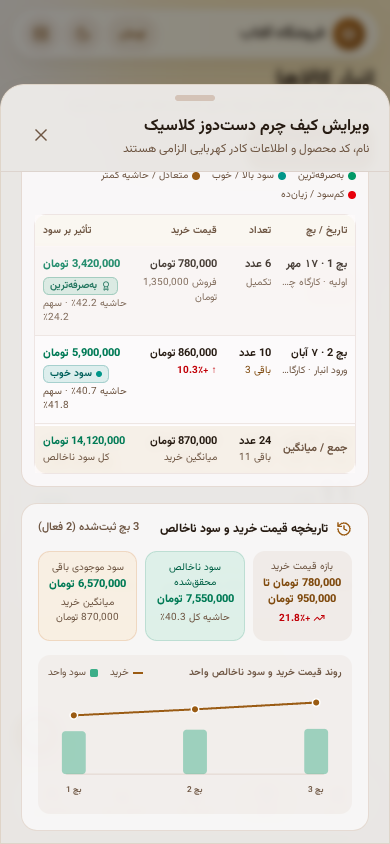
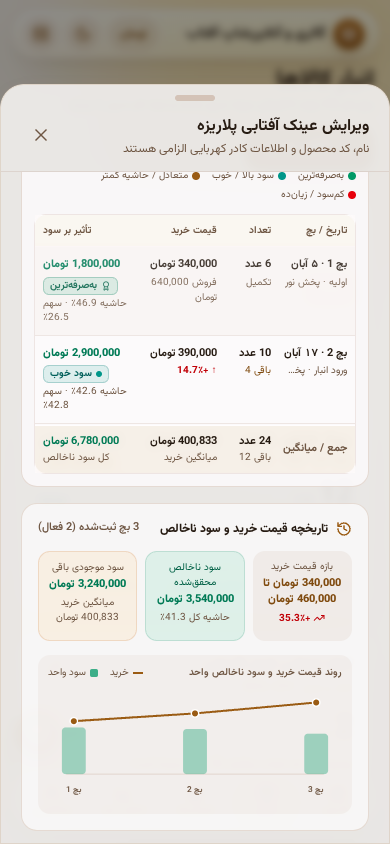
refactor: generalize application branding and data logic
- Removed cafe-specific demo constraints and legacy keys.
- Updated UI placeholders and README to reflect a generic business/inventory management tool.
- Set default business type to 'online' in backup settings.

diff --git a/src/components/modals/ProductFormModal.tsx b/src/components/modals/ProductFormModal.tsx
@@ -213,7 +213,7 @@ export function ProductFormModal({ open, onClose, editingProduct }: ProductFormM
               required
               value={name}
               onChange={(e) => setName(e.target.value)}
-              placeholder="مثلاً: دانه قهوه برزیل"
+              placeholder="مثلاً: کیف دوشی چرم"
               className="w-full min-h-[44px] px-3.5 rounded-2xl bg-white/80 dark:bg-[#1A1511] border border-amber-900/15 dark:border-amber-200/15 text-sm focus:outline-none focus:ring-2 focus:ring-[#9A5B13]"
             />
           </div>
@@ -229,7 +229,7 @@ export function ProductFormModal({ open, onClose, editingProduct }: ProductFormM
               required
               value={sku}
               onChange={(e) => setSku(e.target.value)}
-              placeholder="COF-105"
+              placeholder="PRD-105"
               className="w-full min-h-[44px] px-3.5 rounded-2xl bg-white/80 dark:bg-[#1A1511] border border-amber-900/15 dark:border-amber-200/15 text-sm text-left tabular-nums focus:outline-none focus:ring-2 focus:ring-[#9A5B13]"
             />
           </div>
@@ -396,7 +396,7 @@ export function ProductFormModal({ open, onClose, editingProduct }: ProductFormM
             rows={2}
             value={notes}
             onChange={(e) => setNotes(e.target.value)}
-            placeholder="توضیحات نگهداری، نوع آسیاب یا برند..."
+            placeholder="توضیحات، رنگبندی، سایز یا برند..."
             className="w-full px-3.5 py-2.5 rounded-2xl bg-white/80 dark:bg-[#1A1511] border border-amber-900/15 dark:border-amber-200/15 text-sm focus:outline-none focus:ring-2 focus:ring-[#9A5B13]"
           />
         </div>

diff --git a/src/context/LedgerContext.tsx b/src/context/LedgerContext.tsx
@@ -115,12 +115,33 @@ interface LedgerContextValue {
 
 const LedgerContext = createContext<LedgerContextValue | null>(null);
 
+const LEGACY_LOCAL_KEYS = ['mizan_local_ledger_v1', 'mizan_demo_ledger'];
+
+function isLegacyCafeDemoLedger(state: LedgerState): boolean {
+  const ownerId = state.profile.ownerId ?? '';
+  const storeName = (state.profile.storeName ?? '').trim();
+  const authMode = (state.profile as { authMode?: string }).authMode;
+  return (
+    authMode === 'demo' ||
+    ownerId === 'demo-cafe-mizan' ||
+    ownerId.startsWith('demo_') ||
+    storeName.includes('کافه رُستری میزان') ||
+    storeName.includes('کافه رستری میزان') ||
+    storeName === 'کافه میزان'
+  );
+}
+
 function readStoredLedger(): LedgerState | null {
   try {
+    LEGACY_LOCAL_KEYS.forEach((legacyKey) => localStorage.removeItem(legacyKey));
     const raw = localStorage.getItem(LOCAL_LEDGER_KEY);
     if (!raw) return null;
     const parsed = JSON.parse(raw) as LedgerState;
     if (!parsed || !parsed.profile || !Array.isArray(parsed.products)) return null;
+    if (isLegacyCafeDemoLedger(parsed)) {
+      localStorage.removeItem(LOCAL_LEDGER_KEY);
+      return null;
+    }
     return parsed;
   } catch {
     return null;

diff --git a/src/components/modals/BackupModal.tsx b/src/components/modals/BackupModal.tsx
@@ -6,11 +6,11 @@ import { formatJalaliShortDate } from '../../utils/formatters';
 import { ModalFrame } from './ModalFrame';
 
 const BUSINESS_TYPES: BusinessType[] = [
+  'shop',
+  'online',
+  'boutique',
   'cafe',
   'restaurant',
-  'shop',
-  'boutique',
-  'online',
   'other',
 ];
 
@@ -30,7 +30,7 @@ export function BackupModal({ open, onClose }: BackupModalProps) {
 
   const fileInputRef = useRef<HTMLInputElement | null>(null);
   const [storeName, setStoreName] = useState('');
-  const [businessType, setBusinessType] = useState<BusinessType>('cafe');
+  const [businessType, setBusinessType] = useState<BusinessType>('online');
   const [pendingJson, setPendingJson] = useState<string | null>(null);
   const [pendingSummary, setPendingSummary] = useState<{
     storeName: string;

diff --git a/README.md b/README.md
@@ -1,59 +1,79 @@
 <div dir="rtl" align="right">
 
 <p align="center">
-  <img src="public/icon.svg" alt="لوگوی میزان" width="88" height="88" />
+  <img src="public/icon.svg" alt="لوگوی میزان" width="92" height="92" />
 </p>
 
 <h1 align="center">میزان — دفتر زنده موجودی انبار و سود</h1>
 
 <p align="center">
-  اپلیکیشن تحتوب پیشرونده (PWA) و آماده انتشار اندروید برای مدیریت دقیق موجودی انبار، محاسبه خودکار بهای تمامشده به روش <strong>FIFO</strong>، ثبت فروشهای حضوری و آنلاین و تحلیل لحظهای سود واقعی — تماماً فارسی، راستبهچپ و ساختهشده با تمرکز بر تجربه موبایل.
+  اپلیکیشن موبایلمحور (<strong>PWA</strong> و آماده بیلد بومی <strong>Android APK / AAB</strong>) برای مدیریت لحظهای موجودی انبار، محاسبه خودکار بهای تمامشده به روش <strong>FIFO</strong>، ثبت فروشهای آنلاین و حضوری و تحلیل دقیق سود واقعی — تماماً فارسی، راستبهچپ و کاملاً آفلاین.
 </p>
 
 <p align="center">
   <img src="https://img.shields.io/badge/React-19-61DAFB?style=flat-square&logo=react&logoColor=14110E" alt="React 19" />
   <img src="https://img.shields.io/badge/TypeScript-5+-3178C6?style=flat-square&logo=typescript&logoColor=white" alt="TypeScript" />
   <img src="https://img.shields.io/badge/Tailwind_CSS-v4-06B6D4?style=flat-square&logo=tailwindcss&logoColor=white" alt="Tailwind CSS v4" />
-  <img src="https://img.shields.io/badge/PWA-Offline_Ready-9A5B13?style=flat-square" alt="PWA Ready" />
-  <img src="https://img.shields.io/badge/Android-Signed_Release_CI-3DDC84?style=flat-square&logo=android&logoColor=14110E" alt="Android Signed CI" />
-  <img src="https://img.shields.io/badge/License-MIT-emerald?style=flat-square" alt="MIT License" />
+  <img src="https://img.shields.io/badge/PWA-Offline_First-9A5B13?style=flat-square" alt="PWA Offline First" />
+  <img src="https://img.shields.io/badge/Android-Signed_APK_%2F_AAB-3DDC84?style=flat-square&logo=android&logoColor=14110E" alt="Android Signed APK & AAB" />
+  <img src="https://img.shields.io/badge/License-MIT-10B981?style=flat-square" alt="MIT License" />
+</p>
+
+<p align="center">
+  <a href="#تصاویر-برنامه">تصاویر برنامه</a> •
+  <a href="#امکانات-کلیدی">امکانات کلیدی</a> •
+  <a href="#نصب-و-اجرای-محلی">نصب و اجرا</a> •
+  <a href="#بیلد-اندروید-apk--aab-و-تنظیمات-امنیتی">بیلد اندروید (APK/AAB)</a> •
+  <a href="#ساختار-پروژه">ساختار پروژه</a>
 </p>
 
 ---
 
-## پیشنمایش رابط کاربری
+## تصاویر برنامه
 
-### نسخه موبایل (حالت روز، حالت شب و جدول تاریخچه خرید بچها)
+### نمای موبایل — شروع سریع، داشبورد (حالت روز و شب)
 
 <p align="center">
-  <img src="docs/screenshots/mobile-dashboard-light.png" alt="داشبورد موبایل در حالت روز با نوارهای شناور شیشهای" width="260" />
+  <img src="docs/screenshots/mobile-welcome.png" alt="صفحه شروع سریع میزان بدون نیاز به ثبتنام" width="250" />
   &nbsp;&nbsp;
-  <img src="docs/screenshots/mobile-dashboard-dark.png" alt="داشبورد موبایل در حالت شب" width="260" />
+  <img src="docs/screenshots/mobile-dashboard-light.png" alt="داشبورد موبایل میزان در حالت روز با نوارهای شناور شیشهای" width="250" />
   &nbsp;&nbsp;
-  <img src="docs/screenshots/mobile-purchase-history.png" alt="جدول تاریخچه خریدهای قبلی و نشانگرهای سودآوری بچها" width="260" />
+  <img src="docs/screenshots/mobile-dashboard-dark.png" alt="داشبورد موبایل میزان در حالت شب" width="250" />
 </p>
 
-### نسخه دسکتاپ (واکنشگرا با ستون شناور سمت راست)
+### انبار شناور، تاریخچه قیمت خرید بچها، فروشها و تحلیل سود
 
 <p align="center">
-  <img src="docs/screenshots/desktop-dashboard.png" alt="داشبورد دسکتاپ میزان" width="100%" />
+  <img src="docs/screenshots/mobile-inventory.png" alt="صفحه انبار کالاها با کارتهای شیشهای شناور و افکت لمسی" width="200" />
+  &nbsp;
+  <img src="docs/screenshots/mobile-purchase-history.png" alt="جدول تاریخچه خرید بچها و نشانگرهای سودآوری در فرم کالا" width="200" />
+  &nbsp;
+  <img src="docs/screenshots/mobile-sales.png" alt="فهرست فروشهای آنلاین و حضوری با محاسبه سود FIFO" width="200" />
+  &nbsp;
+  <img src="docs/screenshots/mobile-analytics.png" alt="تحلیل سود دوخطی و رتبهبندی سودآورترین کالاها" width="200" />
+</p>
+
+### نمای دسکتاپ واکنشگرا
+
+<p align="center">
+  <img src="docs/screenshots/desktop-dashboard.png" alt="داشبورد دسکتاپ میزان با سایدبار شناور شیشهای" width="100%" />
 </p>
 
 ---
 
 ## امکانات کلیدی
 
-- **طراحی شناور الهامگرفته از iOS و تلگرام**: نوار بالا و منوی پایین موبایل بهصورت جزیره شیشهای شناور با افکت `backdrop-blur`، حاشیه درخشان ملایم و حالت روز و شب کامل با قلم **وزیرمتن (Vazirmatn)**.
-- **محاسبه دقیق سود و بهای تمامشده (FIFO)**: هنگام ثبت هر فروش، کالا بهصورت خودکار از قدیمیترین بچ خرید کسر میشود و سود خالص و حاشیه سود واقعی بدون خطا محاسبه میگردد.
-- **پشتیبانی از خرید و فروش چندنرخی برای یک کالا**: میتوانید یک کالا را در تاریخهای مختلف با قیمت خرید و فروش متفاوت وارد انبار کنید، سهم هر بچ در سود را ببینید و هنگام فروش بین حالت خودکار FIFO یا انتخاب یک بچ مشخص تصمیم بگیرید.
-- **تاریخچه قیمت خرید و نشانگرهای سودآوری بچها**: در فرم ویرایش هر کالا، جدول تاریخچه خریدهای قبلی (`PurchaseHistoryTable`) همراه با نشانگرهای رنگی سودآوری (*بهصرفهترین*، *سود خوب*، *حاشیه کمتر*، *کمسود / زیانده*) و اسکرول عمودی بهینه برای موبایل نمایش داده میشود.
-- **ساختهشده برای فروش آنلاین و حضوری**: پشتیبانی کامل از کانالهای فروش **آنلاین**، **اینستاگرام**، **تلگرام / واتساپ**، **سایت / باسلام**، **حضوری** و **عمده**؛ همراه با ثبت سریع نام مشتری، آیدی یا کد سفارش (مثل `سفارش #1048`) و قابلیت ابطال فروش با بازگشت خودکار موجودی به بچهای اصلی.
-- **نمایش شفاف مبالغ به تومان و ریال**: نمایش دقیق و خوانای ارقام به **تومان** (یا **ریال** با یک لمس) بدون اختصارهای گیجکننده.
-- **آفلاین کامل + پشتیبانگیری و بازیابی (Backup / Restore)**: تمام اطلاعات بدون نیاز به ساخت حساب کاربری یا سرور خارجی روی دستگاه شما ذخیره میشود و هر زمان میتوانید نسخه پشتیبان JSON دانلود یا بازیابی کنید.
+- **رابط کاربری شیشهای شناور (iOS / Telegram Liquid Glass):** نوار بالا، منوی پایین موبایل، کنترلهای بخشبندیشده و کارتهای کالا با افکت شیشهای عمیق (`backdrop-filter`)، سایههای شناور چندلایه، واکنش فشردن لمسی (haptic-like) و حالت روز و شب کامل همراه با قلم **وزیرمتن (Vazirmatn)**.
+- **موتور حسابداری انبار FIFO و خرید چندنرخی:** امکان ثبت یک کالا با قیمتهای خرید و فروش متفاوت در بچهای مختلف؛ هنگام فروش، موجودی بهطور خودکار از قدیمیترین بچ کسر میشود و بهای تمامشده و سود واقعی بدون خطا محاسبه میگردد.
+- **تاریخچه قیمت خرید و نشانگرهای سودآوری بچها:** نمایش فهرست خریدهای قبلی هر کالا (`PurchaseHistoryTable`) همراه با درصد تغییر قیمت، سهم سود هر بچ و نشانگرهای رنگی (*بهصرفهترین*، *سود خوب*، *حاشیه کمتر*، *کمسود / زیانده*).
+- **آماده برای فروش آنلاین و حضوری:** پشتیبانی از کانالهای **آنلاین**، **اینستاگرام**، **تلگرام / واتساپ**، **سایت / باسلام**، **حضوری** و **عمده** با ثبت سریع آیدی یا شماره سفارش، کنترل موجودی، و قابلیت ابطال فروش با بازگشت خودکار موجودی به بچهای اصلی.
+- **تحلیل سود و گزارشگیری شمسی:** داشبورد زنده با تاریخ شمسی، روند سود ۷ روزه، نمودار روزانه و ماهانه، تحلیل بازههای ۷ / ۳۰ / ۹۰ روزه و رتبهبندی سودآورترین کالاها.
+- **شفافیت کامل در واحد پول:** نمایش مستقیم مبالغ به **تومان** یا **ریال** (قابل جابهجایی با یک لمس) بدون اختصارهای مبهم.
+- **حریم خصوصی و عملکرد ۱۰۰٪ آفلاین:** بدون نیاز به ساخت حساب کاربری یا سرور خارجی؛ ذخیره محلی امن روی دستگاه به همراه خروجی و بازیابی کامل فایل پشتیبان (**Backup / Restore JSON**).
 
 ---
 
-## نصب و اجرای محلی (توسعه)
+## نصب و اجرای محلی
 
 پیشنیاز: **Node.js نسخه ۲۰ به بالا**
 
@@ -65,72 +85,55 @@ cd mizan-ledger
 # ۲. نصب وابستگیها
 npm install
 
-# ۳. اجرای محیط توسعه (روی پورت 3000)
+# ۳. اجرای محیط توسعه روی پورت 3000
 npm run dev
 ```
 
 ### دستورهای کاربردی
 
-| دستور | توضیح |
+| دستور | کاربرد |
 | :--- | :--- |
 | `npm run dev` | اجرای سرور توسعه روی `http://localhost:3000` |
-| `npm run build` | ساخت خروجی نهایی بهینه همراه با Service Worker و Manifest (در پوشه `dist/`) |
+| `npm run build` | ساخت خروجی تولیدی وب همراه با Service Worker و Manifest در پوشه `dist/` |
 | `npm run lint` | بررسی کامل تایپهای TypeScript (`tsc --noEmit`) |
-| `npm test` | اجرای تستهای واحد منطق FIFO، چندنرخی، تاریخچه خرید و پشتیبانگیری |
+| `npm test` | اجرای تستهای واحد موتور FIFO، چندنرخی، تاریخچه خرید و پشتیبانگیری |
+| `npm run android:keystore` | ساخت کلید امضای دائمی تولیدی (RSA 4096-bit) و `keystore.properties` محلی |
+| `npm run android:build` | ساخت همزمان فایلهای امضاشده **APK** و **AAB** در پوشه `release-artifacts/` |
+| `npm run android:build:apk` | ساخت فایل نصبی امضاشده **APK** |
+| `npm run android:build:aab` | ساخت بسته انتشار امضاشده **AAB** برای Google Play، کافهبازار و مایکت |
 
 ---
 
-## نصب روی گوشی اندروید و ساخت فایل APK امضاشده (بدون خطای Unsafe)
+## بیلد اندروید (APK / AAB) و تنظیمات امنیتی
 
-اپلیکیشن میزان به دو روش کاملاً امن روی گوشی اندروید قابل نصب است:
+میزان به دو روش کاملاً امن و استاندارد روی گوشیهای اندروید قابل نصب است:
 
-### روش ۱: نصب مستقیم PWA (سریعترین روش — بدون هیچ هشدار امنیتی)
-نسخه وب میزان دارای **Web App Manifest**، آیکونهای استاندارد (`192px`، `512px` و `Maskable`) و **Service Worker آفلاین** است. پس از میزبانی پوشه `dist/` روی هر هاست HTTPS (مانند GitHub Pages، Cloudflare Pages یا Vercel):
-1. آدرس اپ را در مرورگر Chrome اندروید (یا Safari آیفون) باز کنید.
-2. دکمه **«نصب اپلیکیشن»** داخل برنامه (یا گزینه *Add to Home Screen*) را بزنید.
-3. اپ با آیکون اختصاصی، تمامصفحه (`standalone`) و کاملاً آفلاین بدون هیچ هشدار Play Protect نصب میشود.
+### روش ۱: نصب مستقیم بهعنوان PWA (بدون نیاز به APK)
+پس از میزبانی پوشه `dist/` روی هر سرویس HTTPS (مانند GitHub Pages، Cloudflare Pages یا Vercel)، کافی است آدرس را در مرورگر Chrome اندروید یا Safari آیفون باز کرده و دکمه **«نصب اپلیکیشن»** را بزنید تا بهصورت تمامصفحه و آفلاین نصب شود.
 
-### روش ۲: بیلد استاندارد محلی یا خودکار (APK و AAB امضاشده با امنسازی تولیدی)
-در این مخزن، اسکریپتهای استاندارد تولید نسخه اندروید (`scripts/build-android.sh`، `scripts/generate-keystore.sh`، `scripts/harden-android.mjs`) به همراه تنظیمات امنیتی `android-config/` و ورکفلو **GitHub Actions** قرار داده شدهاند تا فایلهای **APK** و **AAB** با امضای **v1/v2/v3/v4** و بدون خطاهای امنیتی **Unsafe / Play Protect** تولید شوند.
+### روش ۲: بیلد بومی امضاشده اندروید (APK و AAB بدون خطای Unsafe)
+اسکریپتهای استاندارد `scripts/build-android.sh`، `scripts/generate-keystore.sh` و `scripts/harden-android.mjs` همراه با فایلهای امنیتی `android-config/` تمام پیشنیازهای امنیتی نسخه تولیدی را بهصورت خودکار اعمال میکنند:
 
-#### تنظیمات امنیتی اعمالشده برای رفع خطاهای Unsafe در محیط تولید
-- **مسدودسازی کامل ترافیک ناامن HTTP (`cleartextTrafficPermitted="false"`):** از طریق فایل `android-config/network_security_config.xml` و `usesCleartextTraffic="false"` در `AndroidManifest.xml` و فقط اعتماد به گواهیهای سیستمی (`system` CAs).
-- **غیرفعالسازی دیباگ و استخراج داده در نسخه انتشار:** تنظیم خودکار `debuggable="false"`، `webContentsDebuggingEnabled: false` در WebView و `allowBackup="false"` برای جلوگیری از استخراج داده از طریق ADB.
-- **فشردهسازی و حذف لاگهای دیباگ با R8/ProGuard:** فعالسازی `minifyEnabled` و `shrinkResources` همراه با قواعد اختصاصی `android-config/proguard-rules.pro`.
-- **اجبار امضای دائمی تولیدی (v1/v2/v3/v4):** اسکریپت بیلد از ساخت تصادفی نسخه تولیدی با کلید دیباگ جلوگیری میکند، امضای نهایی را با `apksigner verify` و `jarsigner -verify -strict` تأیید کرده و فایل `SHA256SUMS.txt` تولید میکند.
+- **مسدودسازی ترافیک ناامن HTTP:** تنظیم `cleartextTrafficPermitted="false"` در `network_security_config.xml` و `usesCleartextTraffic="false"` در `AndroidManifest.xml` با اعتماد انحصاری به گواهیهای سیستمی (`system` CAs).
+- **غیرفعالسازی دیباگ و استخراج داده:** اعمال خودکار `debuggable="false"`، غیرفعالسازی دیباگ WebView (`webContentsDebuggingEnabled: false`) و مسدود کردن استخراج داده از طریق ADB (`allowBackup="false"`).
+- **بهینهسازی و پاکسازی لاگ با R8 / ProGuard:** فعالسازی `minifyEnabled`، `shrinkResources` و حذف لاگهای دیباگ در بیلد نهایی.
+- **امضای دائمی v1/v2/v3/v4 و تأیید صحت:** جلوگیری از ساخت تصادفی بیلد تولیدی با کلید دیباگ، بررسی امضا با `apksigner verify` و `jarsigner -verify -strict` و تولید `SHA256SUMS.txt`.
 
-#### گام ۱ — ساخت کلید امضای اختصاصی (Keystore) با یک دستور
-> **نکته بسیار مهم:** فایل `mizan-release.jks` و `keystore.properties` بهصورت خودکار در `.gitignore` مسدود شدهاند؛ کلید خود را در یک مدیریت رمز امن نگهداری کنید و هرگز در گیتهاب کامیت نکنید.
-
-```bash
-npm run android:keystore
-```
-
-#### گام ۲ — ساخت محلی فایل نصبی امضاشده (APK و AAB)
-در صورت نصب بودن **JDK 21** و **Android SDK** (`ANDROID_SDK_ROOT` یا `ANDROID_HOME`):
-
-```bash
-# ساخت همزمان APK و AAB امضاشده در پوشه release-artifacts/
-npm run android:build
-
-# یا ساخت جداگانه:
-npm run android:build:apk
-npm run android:build:aab
-```
-
-#### گام ۳ — ساخت خودکار در GitHub Actions (بدون نیاز به نصب Android SDK)
-در مخزن گیتهاب به مسیر `Settings → Secrets and variables → Actions → New repository secret` بروید و ۴ مقدار زیر را وارد کنید:
-
-| نام Secret | مقدار |
-| :--- | :--- |
-| `ANDROID_KEYSTORE_BASE64` | خروجی `base64 -w 0 mizan-release.jks` |
-| `ANDROID_KEYSTORE_PASSWORD` | رمز عبور Keystore |
-| `ANDROID_KEY_ALIAS` | نام مستعار کلید (مثلاً `mizan-release`) |
-| `ANDROID_KEY_PASSWORD` | رمز عبور کلید |
-
-سپس با انتشار تگ نسخه (`git tag v1.0.0 && git push origin v1.0.0`) یا اجرای دستی ورکفلو **Android Signed Release Build** در تب Actions، فایلهای `mizan-release-signed.apk`، `mizan-release-signed.aab` و `SHA256SUMS.txt` بهصورت خودکار تولید و ضمیمه میشوند.
-
-> **توصیه برای انتشار عمومی بدون هیچ هشدار در تمام گوشیهای اندروید:** خروجی `mizan-release-signed.aab` را در **کافهبازار / مایکت** یا **Google Play Console** (با Play App Signing) منتشر کنید؛ یا از نسخه **PWA / TWA** روی دامنه HTTPS استفاده کنید.
+#### گامهای بیلد محلی یا خودکار با GitHub Actions
+1. یک بار کلید امضای اختصاصی خود را بسازید (فایل کلید و `keystore.properties` در `.gitignore` محافظت میشوند و هرگز کامیت نخواهند شد):
+   ```bash
+   npm run android:keystore
+   ```
+2. برای بیلد روی سیستم خودتان (با نصب بودن JDK 21 و Android SDK):
+   ```bash
+   npm run android:build
+   ```
+3. برای بیلد خودکار در **GitHub Actions**، این ۴ Secret را در مسیر `Settings → Secrets and variables → Actions` مخزن ثبت کنید:
+   - `ANDROID_KEYSTORE_BASE64` (خروجی `base64 -w 0 mizan-release.jks`)
+   - `ANDROID_KEYSTORE_PASSWORD`
+   - `ANDROID_KEY_ALIAS`
+   - `ANDROID_KEY_PASSWORD`
+   سپس یک تگ نسخه منتشر کنید (`git tag v1.0.0 && git push origin v1.0.0`) یا ورکفلو **Android Signed Release Build** را از تب Actions اجرا کنید تا فایلهای `mizan-release-signed.apk`، `mizan-release-signed.aab` و `SHA256SUMS.txt` بهصورت خودکار آماده شوند.
 
 ---
 
@@ -138,37 +141,47 @@ npm run android:build:aab
 
 ```text
 ├── .github/workflows/
-│   ├── ci.yml                     # بررسی خودکار تایپها، تستها و بیلد وب
-│   └── android-release.yml        # ساخت خودکار APK و AAB امضاشده اندروید
-├── docs/screenshots/              # اسکرینشاتهای مستندات
-├── public/                        # آیکونهای SVG و PNG استاندارد PWA / iOS / Android
+│   ├── ci.yml                           # بررسی خودکار تایپها، تستها و بیلد وب
+│   └── android-release.yml              # بیلد و امضای خودکار APK و AAB در گیتهاب
+├── android-config/
+│   ├── network_security_config.xml      # مسدودسازی HTTP و محدودیت به گواهیهای سیستمی
+│   ├── proguard-rules.pro               # قواعد R8/ProGuard و حذف لاگهای دیباگ
+│   ├── release-signing.gradle           # تنظیمات امضای v1/v2/v3/v4 و فشردهسازی بیلد
+│   └── keystore.properties.example      # الگوی تنظیمات محلی کلید امضا
+├── scripts/
+│   ├── generate-keystore.sh             # ساخت کلید امضای 4096-bit PKCS12
+│   ├── harden-android.mjs               # تزریق خودکار تنظیمات امنیتی به پروژه اندروید
+│   ├── harden-android.test.mjs          # تستهای واحد امنسازی مانیفست و Gradle
+│   └── build-android.sh                 # اسکریپت استاندارد بیلد و تأیید APK/AAB
+├── docs/screenshots/                    # اسکرینشاتهای مستندات (موبایل و دسکتاپ)
+├── public/                              # آیکونهای استاندارد PWA / iOS / Android
 ├── src/
 │   ├── components/
-│   │   ├── LayoutShell.tsx        # نوارهای شناور iOS/تلگرام و سایدبار دسکتاپ
-│   │   ├── PWAInstallButton.tsx   # دکمه نصب درونبرنامهای و نشانگر حالت آفلاین
-│   │   ├── PurchaseHistoryTable.tsx # جدول تاریخچه خریدها با نشانگر سودآوری بچها
+│   │   ├── LayoutShell.tsx              # نوارهای شناور iOS/تلگرام و سایدبار دسکتاپ
+│   │   ├── PWAInstallButton.tsx         # دکمه نصب درونبرنامهای و نشانگر حالت آفلاین
+│   │   ├── PurchaseHistoryTable.tsx     # جدول تاریخچه خریدها با نشانگر سودآوری بچها
 │   │   ├── PurchasePriceHistoryPanel.tsx
-│   │   ├── WelcomeScreen.tsx
-│   │   └── modals/                # فرم کالا، ثبت فروش آنلاین/حضوری، ورود انبار، بکاپ
-│   ├── context/LedgerContext.tsx  # مدیریت وضعیت دفتر، ذخیره محلی و پشتیبانگیری
-│   ├── hooks/usePWAInstall.ts     # هوکهای نصب PWA و وضعیت شبکه
-│   ├── types/mizan.ts             # تایپها و کانالهای فروش آنلاین و حضوری
+│   │   ├── WelcomeScreen.tsx            # صفحه شروع سریع و بازیابی پشتیبان
+│   │   └── modals/                      # فرم کالا، ثبت فروش، ورود انبار، پشتیبانگیری
+│   ├── context/LedgerContext.tsx        # مدیریت دفتر، ذخیره محلی و پشتیبانگیری
+│   ├── hooks/usePWAInstall.ts           # هوکهای نصب PWA و وضعیت شبکه
+│   ├── types/mizan.ts                   # تایپهای مدل داده و کانالهای فروش
 │   ├── utils/
-│   │   ├── fifo.ts                # موتور محاسبه FIFO، چندنرخی و تاریخچه خرید
-│   │   ├── analytics.ts           # تجمیع داشبورد و گزارشهای سود
-│   │   ├── backup.ts              # اعتبارسنجی و تبدیل فایل پشتیبان JSON
-│   │   ├── formatters.ts          # قالببندی تومان/ریال و تاریخ شمسی
-│   │   └── mizan.test.ts          # مجموعه تستهای واحد (node:test)
-│   └── views/                     # صفحات داشبورد، انبار، فروشها، تحلیل سود و مخاطبین
-├── capacitor.config.ts            # تنظیمات بستهبندی اندروید (Capacitor)
-├── vite.config.ts                 # تنظیمات Vite و VitePWA
-└── LICENSE                        # مجوز MIT
+│   │   ├── fifo.ts                      # موتور محاسبه FIFO، چندنرخی و تاریخچه خرید
+│   │   ├── analytics.ts                 # تجمیع داشبورد و گزارشهای سود
+│   │   ├── backup.ts                    # اعتبارسنجی و تبدیل فایل پشتیبان JSON
+│   │   ├── formatters.ts                # قالببندی تومان/ریال و تاریخ شمسی
+│   │   └── mizan.test.ts                # مجموعه تستهای واحد (node:test)
+│   └── views/                           # داشبورد، انبار، فروشها، تحلیل سود و مخاطبین
+├── capacitor.config.ts                  # تنظیمات امنشده Capacitor اندروید
+├── vite.config.ts                       # تنظیمات Vite و VitePWA
+└── LICENSE                              # مجوز MIT
 ```
 
 ---
 
-## مجوز انتشار
+## مشارکت و مجوز انتشار
 
-این پروژه تحت مجوز **MIT** منتشر شده است. جزئیات بیشتر را در فایل [LICENSE](LICENSE) بخوانید.
+پیشنهادها و Pull Requestها با استقبال بررسی میشوند. این پروژه تحت مجوز **MIT** منتشر شده است — برای جزئیات فایل [LICENSE](LICENSE) را مطالعه کنید.
 
 </div>
